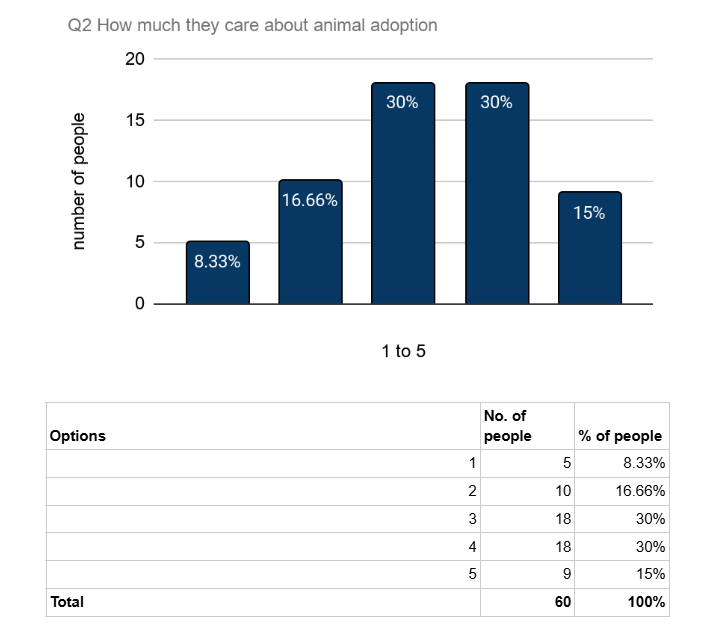
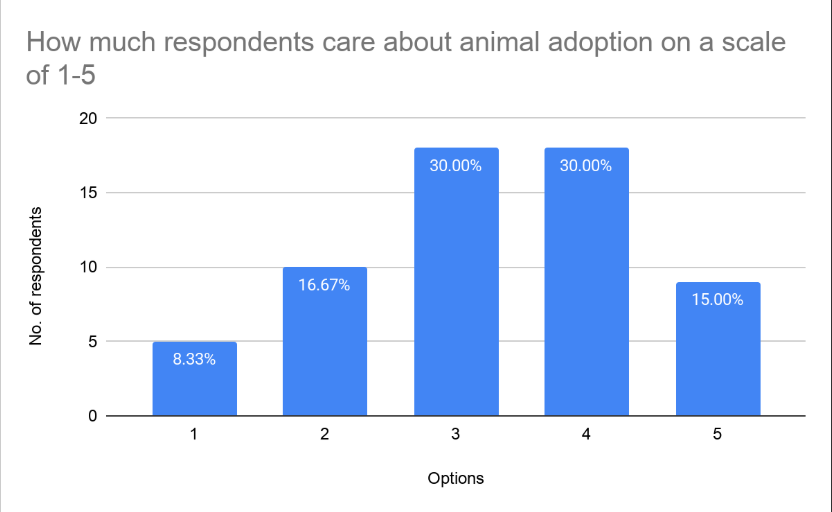
add poster

diff --git a/students/Nadine/data.html b/students/Nadine/data.html
@@ -41,18 +41,95 @@
 
         <h1>Data</h1>
 
+        <img class="data-pic" src="images/age.png" width="200" height = "210">
         <h2>Results: Sample Overview</h2>
-        <figure>
-            <img class="data-pic" src="images/age.png" width="200">
-            <figcaption><b>Characteristics of the Sample</b></figcaption>
-            <b>-Total Sample Size</b>
-            <p>Our group asked 60 people to answer our survey question.</p>
-            <b>-Age Distribution</b>
-            <p>I chose a Bar chart for this data because it has seven categories and I want to show a comparison
-                between
-                each group of ages.
-            </p>
-        </figure>
+
+        <figcaption><b>Characteristics of the Sample</b></figcaption>
+        <b>-Total Sample Size</b>
+        <p>Our group asked 60 people to answer our survey question.</p>
+        <b>-Age Distribution</b>
+        <p>I chose a Bar chart for this data because it has seven categories and I want to show a comparison
+            between
+            each group of ages.
+        </p>
+
+
+        <h2>Survay data</h2>
+
+        <img class="data-pic" src="images/question 1.png" width="330">
+        <b>Q1:On a scale of 1-5, how much do you know about animal adoption? (with 1 being a little and 5
+            being a lot)</b>
+        <p>
+            The exact question we asked was the same as what we wrote down. The purpose of getting that information
+            is to use it to prove that not a lot of people know about animal adoption and encourage animal adoption
+            to be taught in schools.<br>
+            This is a single-choice question, and it collects categorical data.<br>
+            We chose bar chart for this data because it has 5 categories and we want to show a comparison between
+            each scale number.<br>
+            There are 31.66% of people choose scale 2, 3.33% of people choose scale 5. It's almost a three times gap
+            between them.
+        </p>
+
+
+        <img class="data-pic" src="images/question 2.png" width="320">
+        <b>Q2:On a scale of 1-5, how much do you care about animal adoption? (with 1 being a little and 5
+            being a lot)
+        </b>
+        <p>
+            The purpose of getting that information
+            is that people care about animal adoption rates, so it might be a reason to make policymakers also care
+            about it.<br>
+            This is a single-choice question, and it collects categorical data.<br>
+            We chose bar chart for this data because it has 5 categories and we want to show a comparison between
+            each scale number.<br>
+            There are 30% of people choose scale 3 and 4, 8.33% of people choose scale 1. This is quite a big gap
+            between 30% and 8.33%.
+        </p>
+
+
+        
+        <b>Q3:Do you think policy makers should try to increase animal adoption rates?</b>
+        <img class="data-pic" src="images/question 3.png" width="320">
+        <p>
+            We ask this question to prove that people do think policymakers should do something to increase animal
+            adoption rates.<br>
+            This is a single-choice question, and it collects categorical data.<br>
+            We chose a Pie chart for this data because it has 2 categories and we want to show the total breakdown
+            of
+            YES and NO.<br>
+            There are 93.3% of people chose Yes, 6.7% of people chose No. This is a huge gap
+            between the two options.
+        </p>
+
+        <b>Q4:What do you think policy makers should do in order to increase<br>
+            animal adoption rates?(Multiple
+            selections possible)
+        </b>
+        <img class="data-pic" src="images/question 4.png" width="350" height="220">
+        <p>
+            We want to know what the public think policymakers should do to increase the adoption rates. And we
+            expect that people choose “put animal adoption issues to the curriculum”<br>
+            This is a multiple selection question, and it collects categorical data.<br>
+            We chose a Bar chart for this data because it has 7 categories and we want to show a comparison between
+            each option.<br>
+            There are 20.1% of people chose “hold more face-to-face activities for animals and adopters”, 8.99% of
+            people chose “hire more shelter workers” and “put animal adoption issues to the curriculum”.<br>
+            We were surprised that not many people think policymakers <br>
+            should put animal adoption issues to the curriculum.
+        </p>
+
+        <img class="data-pic" src="images/question 5.png" width="320">
+        <b>Q5:Do you think animal adoption issues should be taught in school?</b>
+        <p>
+            We want to prove that people think animal adoption issues should be fought in school, and the data tell
+            us it is what happens.<br>
+            This is a single-choice question, and it collects categorical data.<br>
+            We chose a Pie chart for this data because it has 2 categories and we want to show the total breakdown
+            of YES and NO.<br>
+            There are 96.7% of people chose Yes, 3.3% of people chose No. It is definitely a huge gap between these
+            two options.
+        </p>
+
     </main>
     <footer>
         <div class="center">

diff --git a/students/Nadine/dog.html b/students/Nadine/dog.html
@@ -14,7 +14,7 @@
     <header>
         <div class="center line">
             <div class="big line">
-                <img src = "images/profile.jpg" width = "100">
+                <img src="images/profile.jpg" width="100">
                 <b>Nadine</b>
             </div>
             <menu class="line">
@@ -38,36 +38,47 @@
     <main class="center">
         <h1>My dog: Indian</h1>
         <div class="dog-picture">
-            <div class = "art-frame">
-                <img class = "art" src="./images/dog.png" width="280">
-                <figure>
-                 </figure><figcaption>Figure 1:Indian in April 2026</figcaption>
+            <div class="art-frame">
+                <figure >
+                    <img class="art" src="./images/Indian-poster.png" width="280">
+                    <figcaption>Figure 1:Indian in April 2026</figcaption>
                 </figure>
             </div>
         </div>
-        <p>
-            <b>Name:</b> Indian<br>
-            <b>Gender:</b> Female<br>
-            <b>Age:</b> 2-4 years old<br>
-            <b>Descriptive words:</b>Lively, clingy, friendly, loving, playful, close to humans, all black<br>
-            <b>Likes:</b> Playing and being with people, getting attention<br>
-            <b>Dislikes:</b> Other dogs.<br>
-            <b>Size:</b> Medium<br>
-        </p>
-        <p>
+        <details open>
+            <summary>Information</summary>
+            <p>
+                <b>Name:</b> Indian<br>
+                <b>Gender:</b> Female<br>
+                <b>Age:</b> 2-4 years old<br>
+                <b>Descriptive words:</b>Lively, clingy, friendly, loving, playful, close to humans, all black<br>
+                <b>Likes:</b> Playing and being with people, getting attention<br>
+                <b>Dislikes:</b> Other dogs.<br>
+                <b>Size:</b> Medium<br>
+            </p>
+        </details>
+        <details>
+            <summary>Biography</summary>
+            <p>
 
-            Indian is a medium-sized black dog with a lively and loving personality. This dog is very close to humans
-            and really enjoys being around people.
-            People should adopt Indian because Indian has many good qualities that would make a great pet. Indian is
-            friendly, playful, and enjoys being with humans, which means Indian could fit well into a home with a loving
-            family. Since Indian likes to play with others and stay close to people, this dog would bring joy and energy
-            to a new home.
-        </p>
-        <p>
-            Indian deserves a safe and happy home filled with love. Even though we don’t know everything about Indian’s
-            past, we do know that this dog wants to be close to people and be loved. Imagine how wonderful it would be
-            for Indian to leave the shelter and finally have a family to play with, trust, and love forever.
-        </p>
+                Indian is a medium-sized black dog with a lively and loving personality. This dog is very close to
+                humans
+                and really enjoys being around people.
+                People should adopt Indian because Indian has many good qualities that would make a great pet. Indian is
+                friendly, playful, and enjoys being with humans, which means Indian could fit well into a home with a
+                loving
+                family. Since Indian likes to play with others and stay close to people, this dog would bring joy and
+                energy
+                to a new home.
+            </p>
+            <p>
+                Indian deserves a safe and happy home filled with love. Even though we don’t know everything about
+                Indian’s
+                past, we do know that this dog wants to be close to people and be loved. Imagine how wonderful it would
+                be
+                for Indian to leave the shelter and finally have a family to play with, trust, and love forever.
+            </p>
+        </details>
     </main>
     <footer>
         <div class="center">

diff --git a/students/Nadine/styles/graffiti.css b/students/Nadine/styles/graffiti.css
@@ -1,0 +1,23 @@
+.dog-picture {
+    float: right;
+    margin-left: 20px;
+}
+
+.art-frame {
+    position:relative;
+    width:420px;
+    height:420px;
+    border:10px solid rgb(250, 171, 171);
+}
+
+.art {
+    width:100%;
+    height:100%;
+    object-fit: cover;
+}
+
+#my-graffiti { 
+    position: absolute;
+    top:0px;
+    left:0px;
+}

diff --git a/students/Nadine/coding.html b/students/Nadine/coding.html
@@ -12,11 +12,11 @@
 <body class="dark-mode">
     <header>
         <div class="center line">
-            <div class = "big line">
-                <img src = "images/profile.jpg" width = "100">
+            <div class="big line">
+                <img src="images/profile.jpg" width="100">
                 <b>Nadine</b>
             </div>
-            <menu class = "line">
+            <menu class="line">
                 <a href="./">Home</a>
                 <a href="./dog.html">Dog</a>
                 <a href="./videos.html">Videos</a>
@@ -28,14 +28,21 @@
                 </button>
             </menu>
         </div>
-        <ul class = "center underline">
-            <li class = "tab"><a href="coding.html">About My Website</a></li>
-            <li class = "tab"><a href="calculator.html">Calculator</a></li>
-            <li class = "tab"><a href="graffiti.html">Graffiti</a></li>
+        <ul class="center underline">
+            <li class="tab"><a href="coding.html">About My Website</a></li>
+            <li class="tab"><a href="calculator.html">Calculator</a></li>
+            <li class="tab"><a href="graffiti.html">Graffiti</a></li>
         </ul>
     </header>
     <main class="center">
         <h1>About My Website</h1>
+        <p>
+            This section of the website is all about our work of coding.<br>
+            We made this website during classes. We learned about HTML, CSS, and JavaScript. And we used them to
+            complete the entire website you are seeing.<br>
+            It's really fun and it's also a very special experience.<br>
+            You can follow the tabs above. We have made a calculator and graffiti app.
+        </p>
     </main>
     <footer>
         <div class="center">

diff --git a/students/Nadine/index.html b/students/Nadine/index.html
@@ -12,12 +12,12 @@
 <body class="dark-mode">
     <header>
         <div class="center line">
-            <div class = "big line">
-                <img src = "images/profile.jpg" width = "100">
+            <div class="big line">
+                <img src="images/profile.jpg" width="100">
                 <b>Nadine</b>
-            
+
             </div>
-            <menu class = "line">
+            <menu class="line">
                 <a href="./">Home</a>
                 <a href="./dog.html">Dog</a>
                 <a href="./videos.html">Videos</a>
@@ -32,6 +32,14 @@
     </header>
     <main class="center">
         <h1>Momo's homepage</h1>
+        <p>Hello, my namee is Nadine. This is my page of all the work we've done for this semester.<br>
+            We've done a lot of work this semester. We went to 瑞芳 animal shelter to visit those dogs, to know their
+            stories, and we're trying to help them find their home.<br>
+            We made some videos and discussed philosophy.<br>
+            By the way, these whole pages are all generated using coding.<br>
+            It's a pretty busy and productive semester.<br>
+            Hope you all enjoy and get to know more about us and the adoption issues through these pages.
+        </p>
     </main>
     <footer>
         <div class="center">

diff --git a/students/Nadine/styles/page.css b/students/Nadine/styles/page.css
@@ -127,3 +127,18 @@ main {
   text-align: center;
 }
 
+figure {
+  margin:0;
+  margin-top: 20px;
+  margin-bottom: 20px;
+  border:2px solid rgb(250, 171, 171);
+  padding:10px;
+}
+
+figcaption {
+  font-weight: bold;
+}
+
+.light-mode figure {
+  border:2px solid rgb(76, 39, 82);
+}

diff --git a/students/Nadine/styles/dog.css b/students/Nadine/styles/dog.css
@@ -1,23 +1,13 @@
 .dog-picture {
     float: right;
     margin-left: 20px;
+    margin-bottom: 20px;
+    width:400px;
 }
 
-.art-frame {
-    position:relative;
-    width:420px;
-    height:420px;
-    border:10px solid rgb(250, 171, 171);
-}
 
 .art {
     width:100%;
     height:100%;
     object-fit: cover;
-}
-
-#my-graffiti { 
-    position: absolute;
-    top:0px;
-    left:0px;
 }

diff --git a/students/Nadine/graffiti.html b/students/Nadine/graffiti.html
@@ -7,7 +7,7 @@
     <link rel="preconnect" href="https://fonts.gstatic.com" crossorigin>
     <link href="https://fonts.googleapis.com/css2?family=Sekuya&display=swap" rel="stylesheet">
     <link rel="stylesheet" href="styles/page.css">
-    <link rel="stylesheet" href="styles/dog.css">
+    <link rel="stylesheet" href="styles/graffiti.css">
 </head>
 
 <body class="dark-mode">

diff --git a/students/Nadine/research.html b/students/Nadine/research.html
@@ -40,7 +40,7 @@
         <h1>About Our Research</h1>
         <details open>
             <summary>Learn how to do research</summary>
-            <p>We learn how to do research this semester.</p>
+            <p>We learn how to do research and conduct surveys this semester. </p>
         </details>
         <details>
             <summary>More deatails</summary>